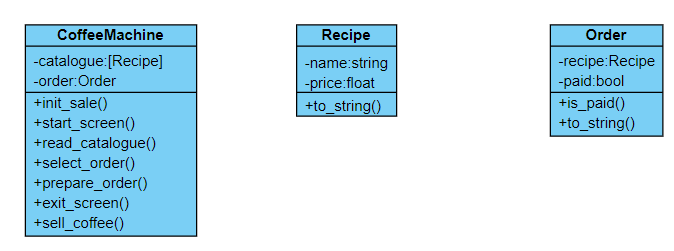
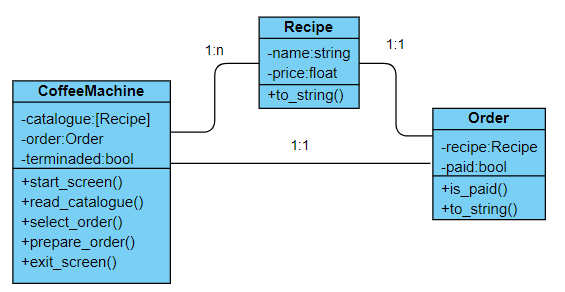
uml diagrams + refactoring coffee_machine.py

diff --git a/coffee_machine.py b/coffee_machine.py
@@ -5,17 +5,23 @@ import PySimpleGUI as sg
     
 class CoffeeMachine:
     """Coffee Machine like the ones in Metaforum"""
+    init_state = 0
+    wait_state = 1
+    confirm_state = 2
+    prepare_state = 3
+    deliver_state = 4
+    exit_state = -1
 
     def __init__(self, catalogue):
         self.catalogue = catalogue
-        self.terminated = False
+        self.state = self.init_state
 
-    def init_sale(self):
+    def init_sell(self):
         self.order = None
         self.selection_valid = False
+        self.state = self.wait_state
     
     def start_screen(self):
-        self.init_sale()
         ### Create welcoming GUI
         sg.theme('Purple')
         layout = [ [sg.Text("Welcome to the coffe vending machine at Metaforum, floor 6")],
@@ -27,14 +33,17 @@ class CoffeeMachine:
         layout.append([sg.Text("Enter something on Row 2"), sg.InputText()])
         layout.append([sg.Button("Order"), sg.Button("Exit")])
 
-        startWindow = sg.Window("MetaCoffee", layout, disable_close=True)
+        startWindow = sg.Window("MetaCoffee", layout)
         
         ### Manage GUI interactions
-        while not self.selection_valid: 
+        while self.state == self.wait_state: 
             event, values = startWindow.read()
             if event == "Exit":
                 startWindow.close()
-                self.terminated = True
+                self.state = self.exit_state
+                break
+            if event == sg.WIN_CLOSED:
+                self.state = self.exit_state
                 break
             if event == "Order":
                 self.select_order(values[0])
@@ -49,22 +58,23 @@ class CoffeeMachine:
         if selection in self.catalogue.keys():
             self.order = Order(self.catalogue[selection])
             self.selection_valid = True
+            self.state = self.confirm_state
         if not self.selection_valid:
             sg.popup("Your selection was not valid, please enter the name of one of our offers.")
 
 
-    def prepare_order(self):
-        if self.terminated:
-            return
+    def confirm_and_pay_order(self):
         layout = [[sg.T("This is your order: " + self.order.to_string() + ". Please, proceed to payment now.")],
                   [sg.Button("Pay"), sg.Button("Cancel")]
         ]
-        payWindow = sg.Window("Payment protocol", layout, disable_close=True, modal=True)
-        while True:
+        payWindow = sg.Window("Payment protocol", layout,modal=True)
+        while self.state == self.confirm_state:
             events, values = payWindow.read()
             if events == "Pay":
                 self.pay_order()
-            break
+                self.state = self.prepare_state
+            else:
+                self.state = self.wait_state
         if not payWindow.is_closed():
             payWindow.close()
             
@@ -73,23 +83,32 @@ class CoffeeMachine:
     def pay_order(self):
         self.order.is_paid(True)
         
-    def exit_screen(self):
-        if self.terminated:
-            return
-        if self.order.is_paid():
-            sg.popup("Do not forget your coffe. Until next time!")
+    def prepare_order(self):
+        self.state = self.deliver_state
+        
+    def deliver_coffee(self):
+        sg.popup("Here is your coffee. Thank you for using our services.")
+        self.state = self.init_state
         
     def sell_coffee(self):
-        self.start_screen()
-        self.prepare_order()
-        self.exit_screen()
+        while self.state != self.exit_state:
+            match self.state:
+                case self.init_state:
+                    self.init_sell()
+                case self.wait_state:
+                    self.start_screen()
+                case self.confirm_state:
+                    self.confirm_and_pay_order()
+                case self.prepare_state:
+                    self.prepare_order()
+                case self.deliver_state:
+                    self.deliver_coffee()
 
 
 def main():
     catalogue = createCatalogue()
     coffeeMachine = CoffeeMachine(catalogue)
-    while not coffeeMachine.terminated:
-        coffeeMachine.sell_coffee()
+    coffeeMachine.sell_coffee()
 
 def createCatalogue():
     catalogue = dict()
